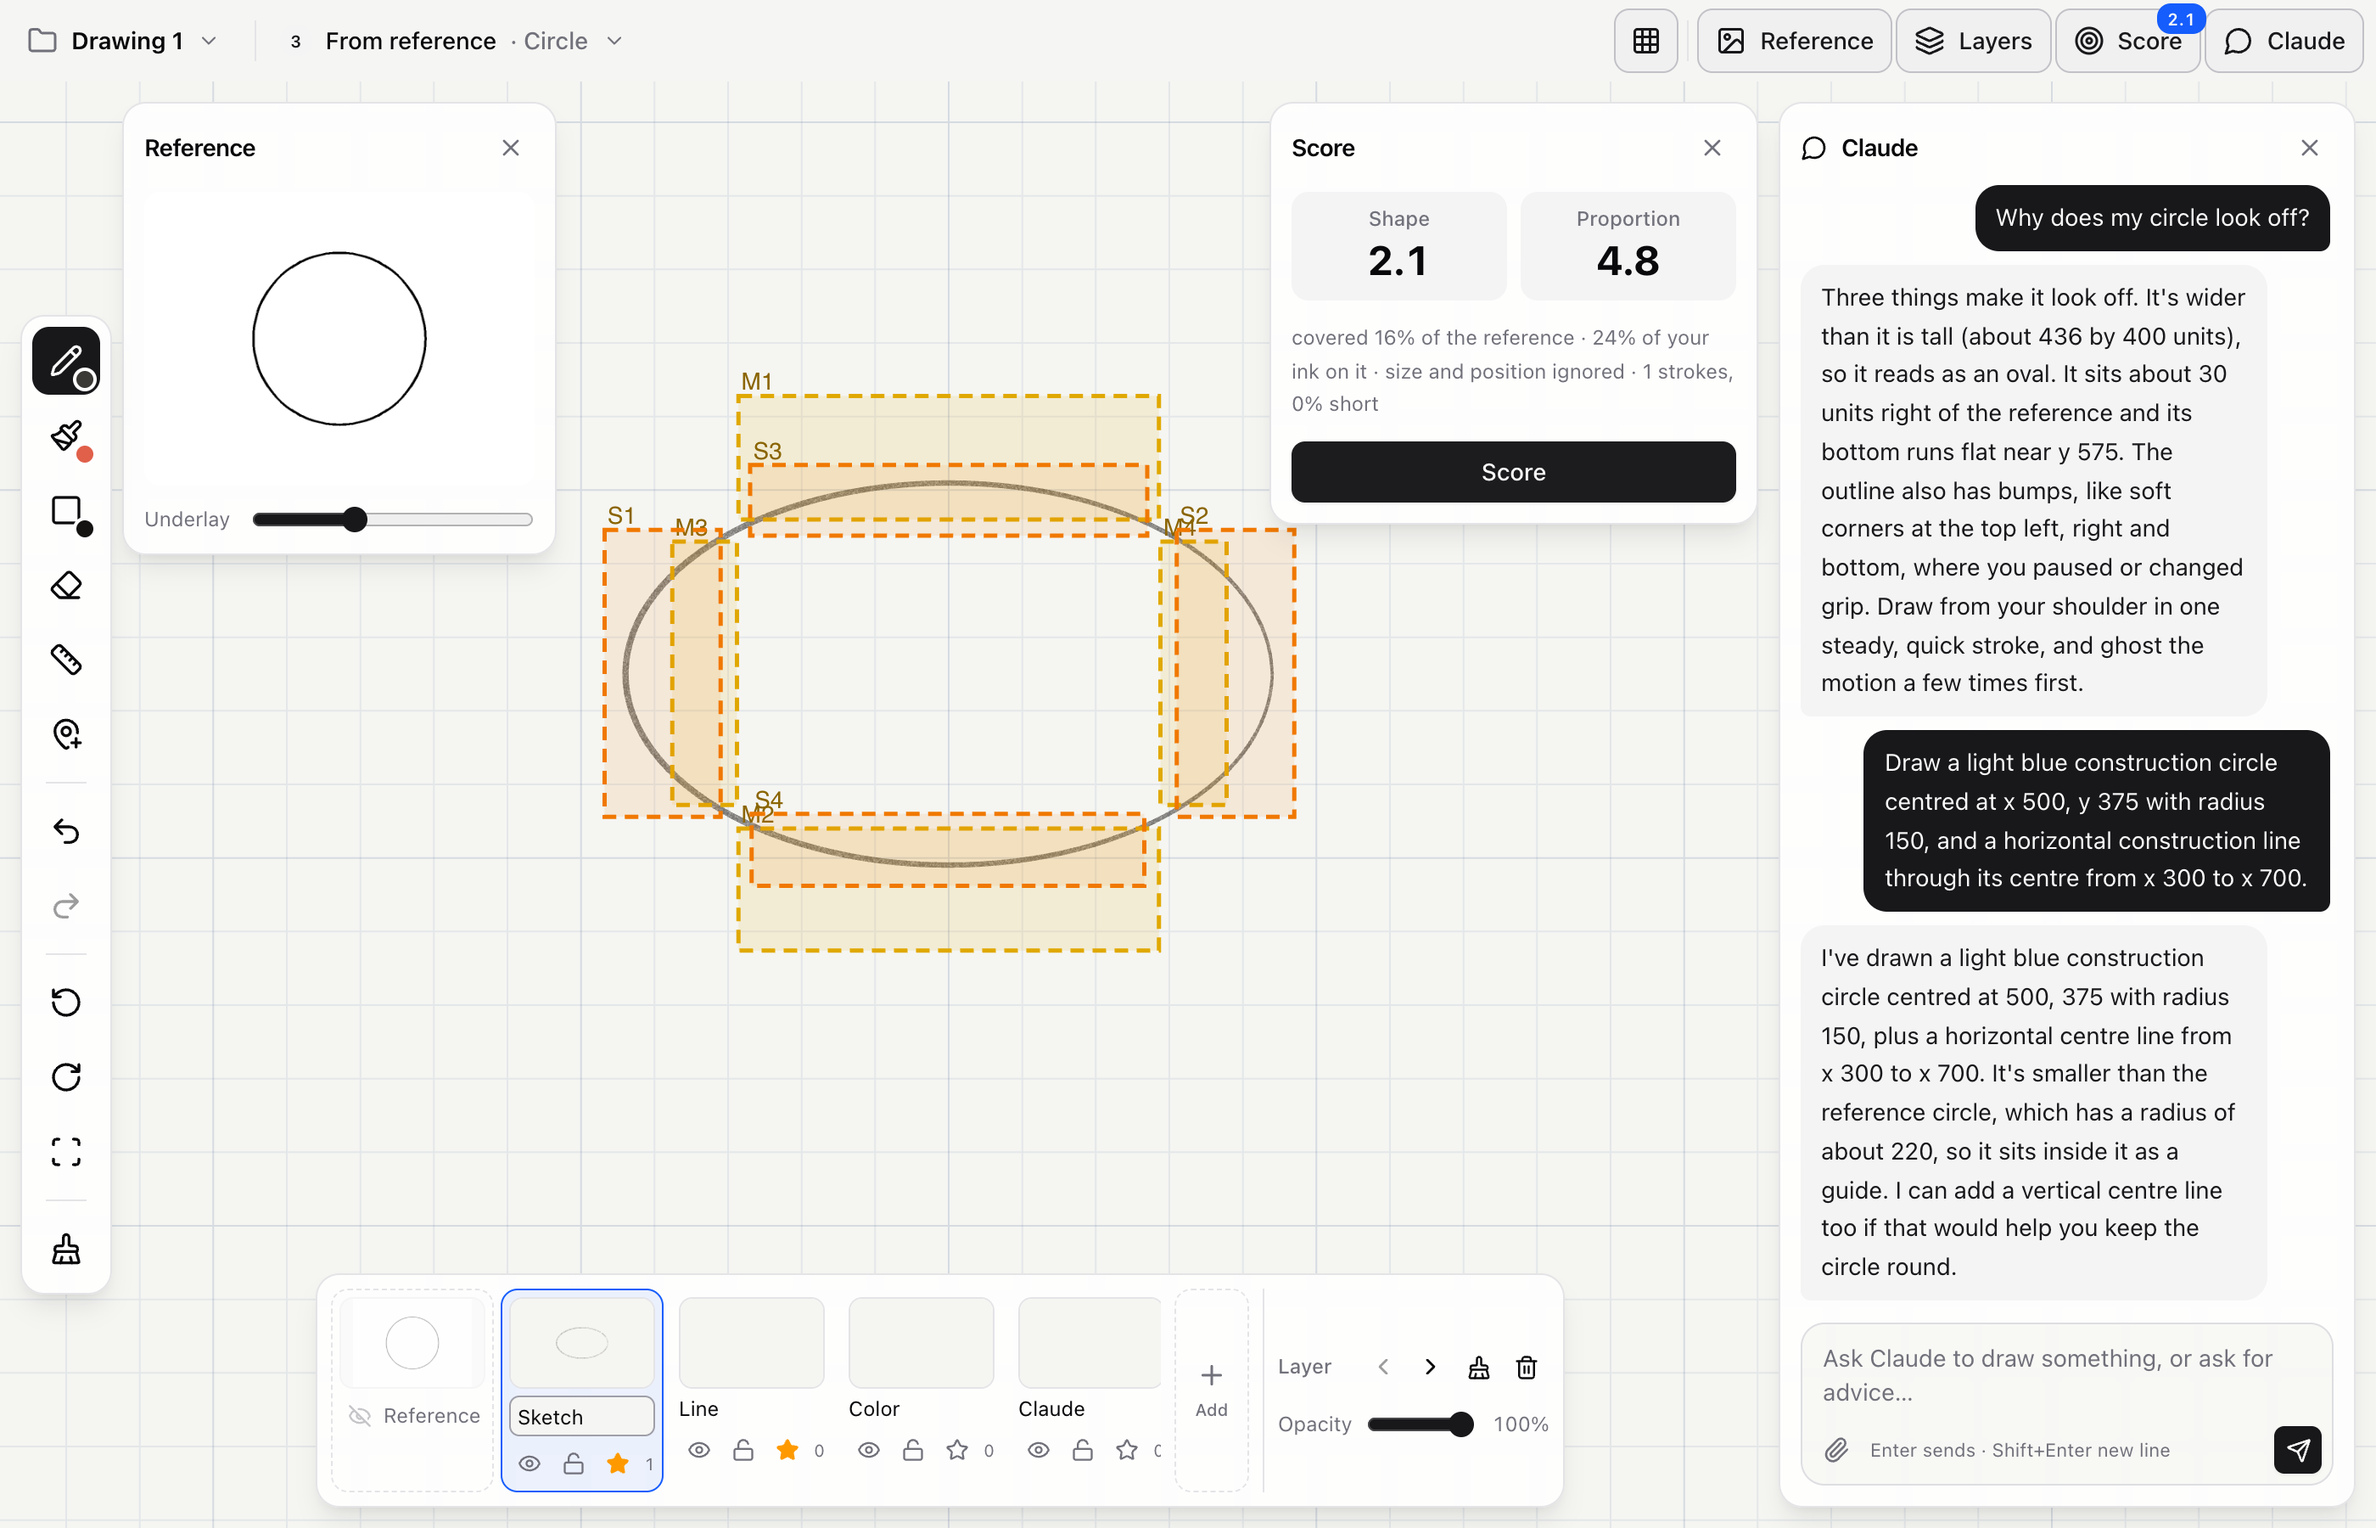
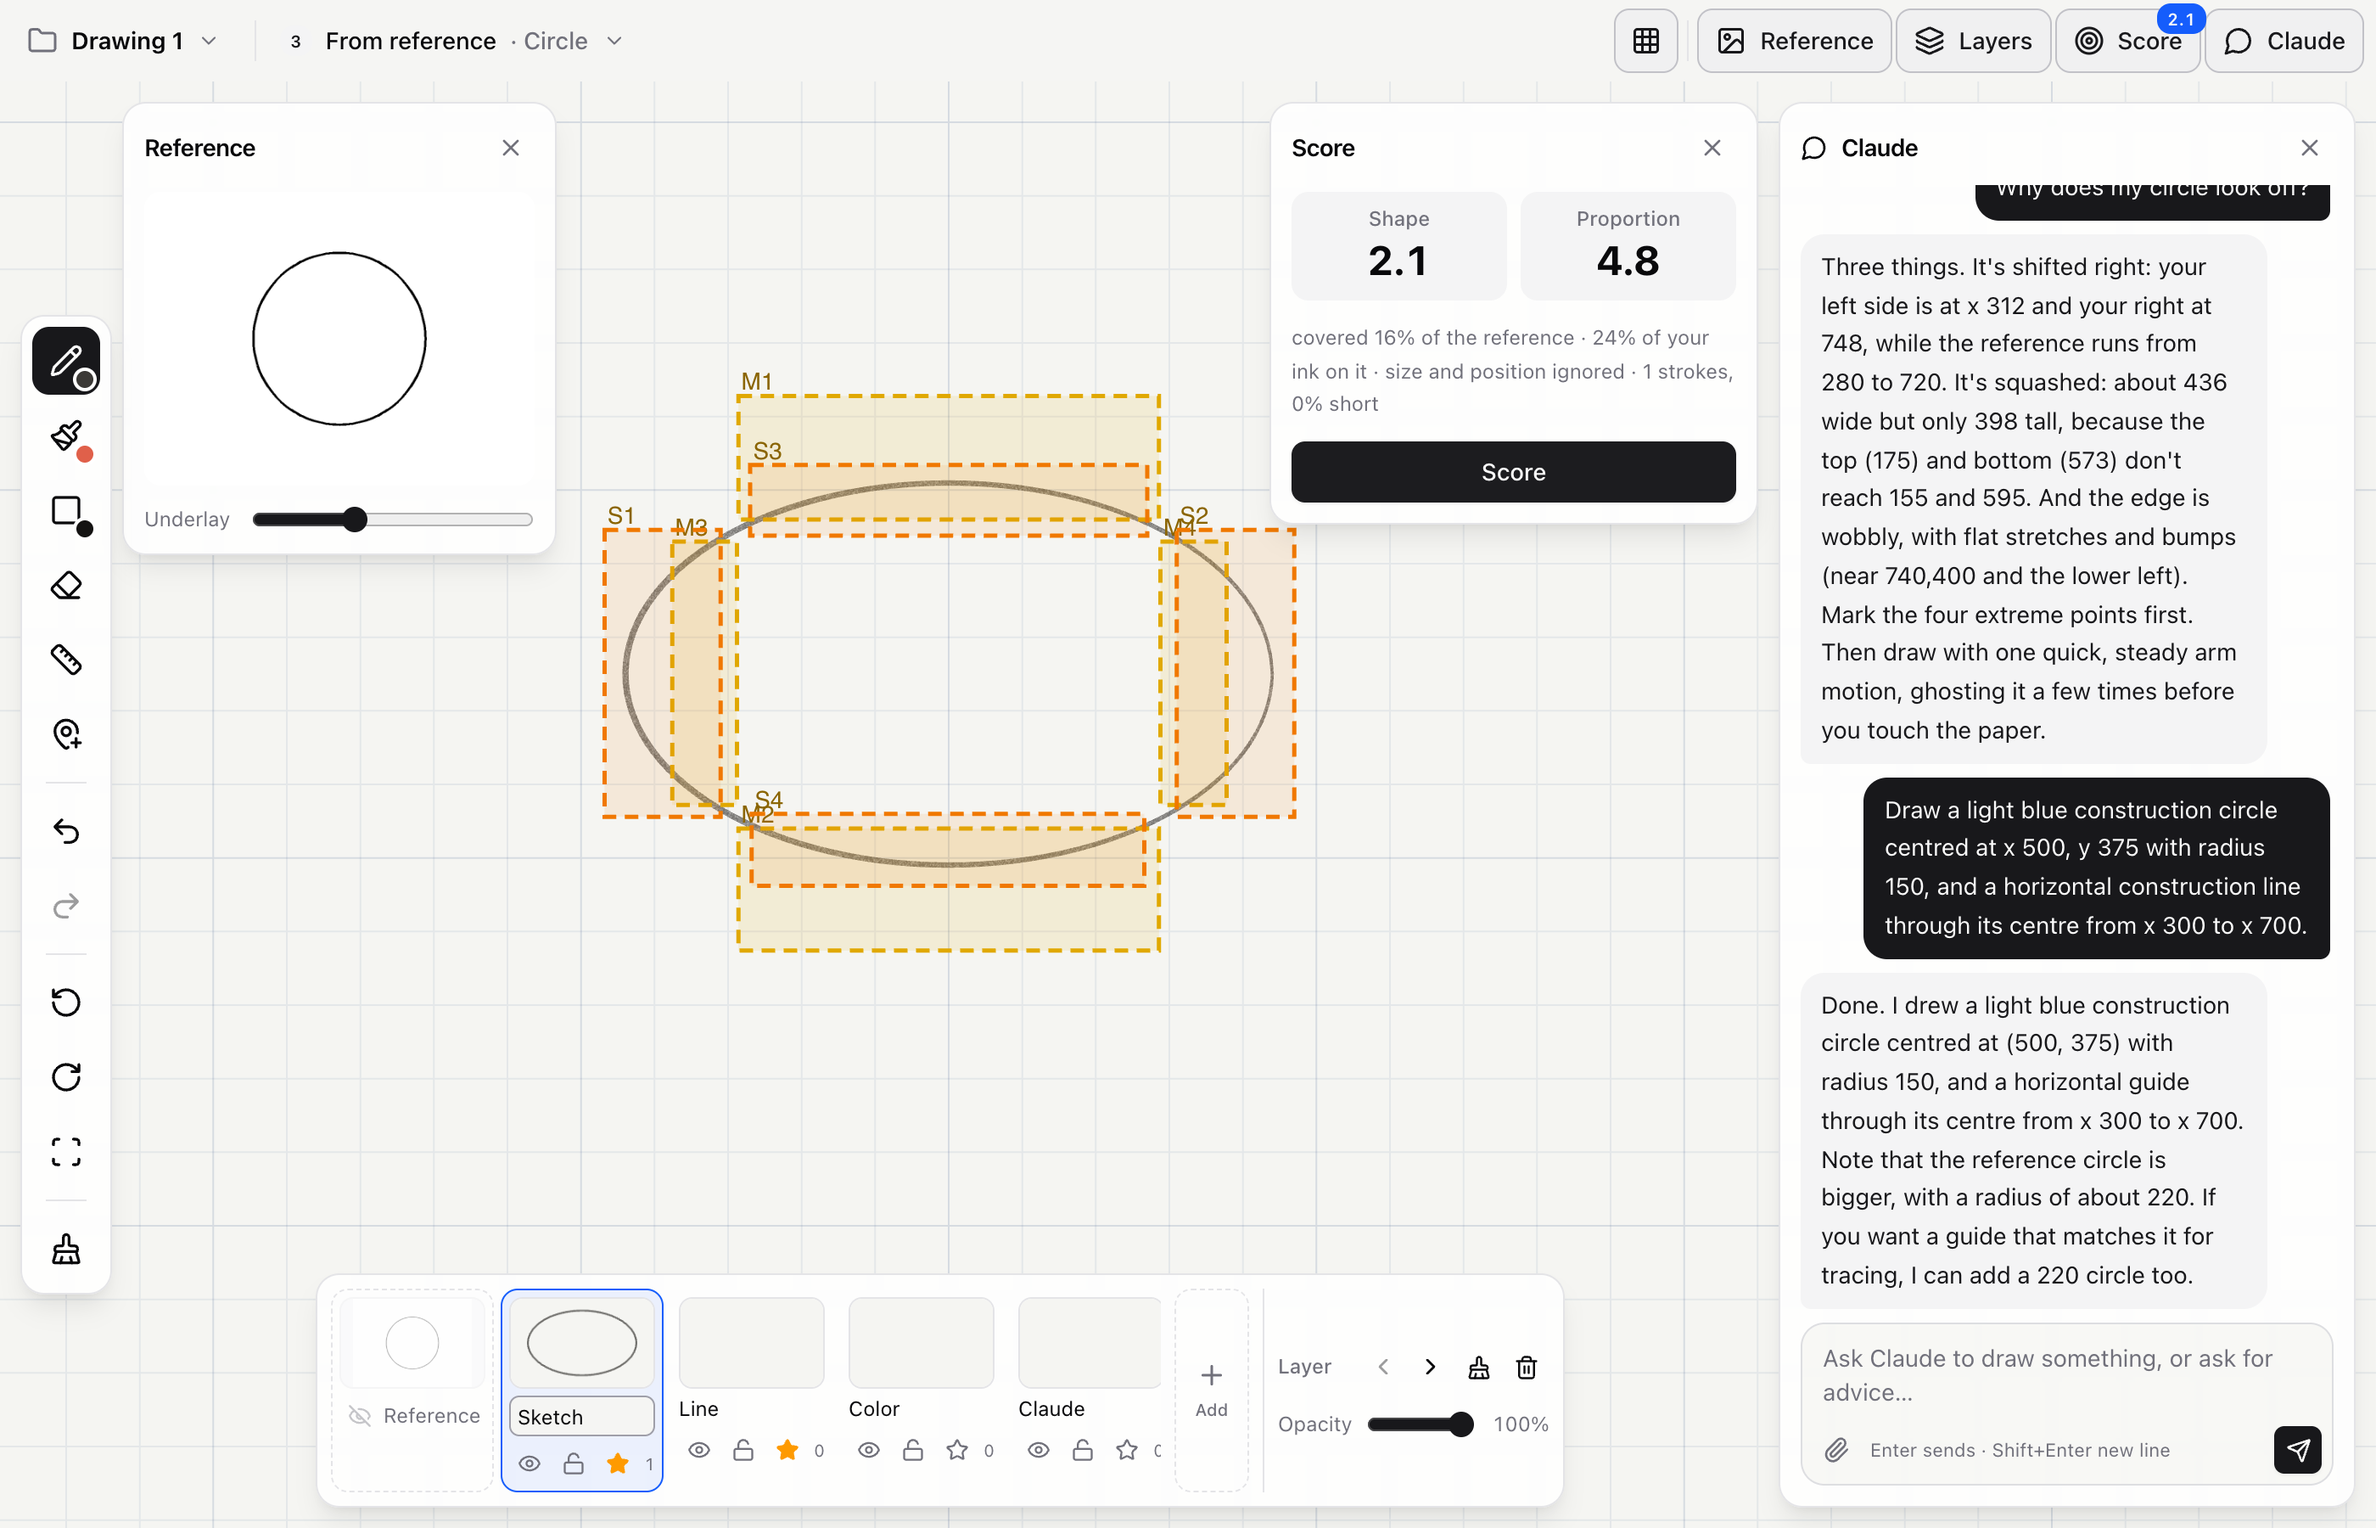
Tidy the board and the README pictures
- Board: PRs #7-#14 are merged, so their tasks move to Ready for Deploy.
- Retake the guided-trace, scored and review screenshots, so their layer cards
  show what is on them. Remove the 8 screenshots the README no longer uses
  (5.8 MB down to 3.0 MB).
- The browser checks' usage notes and the README now point at a throwaway
  server on port 8499 and a temporary screenshot folder. They used to point
  at the servers on 8430/8431 and wrote straight into docs/screenshots.

Changed region(s): [[0.7457, 0.1244, 0.9943, 0.84]]

diff --git a/scripts/e2e_browser.py b/scripts/e2e_browser.py
@@ -1,8 +1,9 @@
 """End-to-end check in a real browser: draws with synthetic pen events, scores, asks the coach, saves screenshots.
 
-Needs a running server and Google Chrome. Run it against a throwaway data dir:
-    uv run drawing-room serve --port 8431 --data "$(mktemp -d)" &
-    uv run --with playwright --with pillow python scripts/e2e_browser.py docs/screenshots http://127.0.0.1:8431/
+Needs Google Chrome and a running server with an EMPTY, throwaway data directory (never your real projects, never
+the server you draw on). Screenshots go to the folder given; the README's pictures live in docs/screenshots. Run:
+    uv run drawing-room serve --port 8499 --data "$(mktemp -d)" &
+    uv run --with playwright --with pillow python scripts/e2e_browser.py "$(mktemp -d)" http://127.0.0.1:8499/
 """
 import json, math, sys, time
 from playwright.sync_api import sync_playwright

diff --git a/scripts/e2e_projects.py b/scripts/e2e_projects.py
@@ -1,8 +1,9 @@
 """Browser check for projects (new, open, rename, delete, shared between devices) and the full-width paper.
 
-Needs a running server with an EMPTY data directory (never your real one). Run:
-    uv run drawing-room serve --port 8431 --data "$(mktemp -d)" &
-    uv run --with playwright python scripts/e2e_projects.py http://127.0.0.1:8431/ docs/screenshots
+Needs Google Chrome and a running server with an EMPTY, throwaway data directory (never your real projects, never
+the server you draw on). Screenshots go to the folder given; the README's pictures live in docs/screenshots. Run:
+    uv run drawing-room serve --port 8499 --data "$(mktemp -d)" &
+    uv run --with playwright python scripts/e2e_projects.py http://127.0.0.1:8499/ "$(mktemp -d)"
 """
 import sys
 from playwright.sync_api import sync_playwright

diff --git a/scripts/e2e_pencil.py b/scripts/e2e_pencil.py
@@ -1,8 +1,9 @@
 """Browser check for the pencil, the Shade tool and the one-row toolbar, with synthetic pen and mouse events.
 
-Needs a running server. Run:
-    uv run drawing-room serve &
-    uv run --with playwright python scripts/e2e_pencil.py http://127.0.0.1:8430/ docs/screenshots
+Needs Google Chrome and a running server with an EMPTY, throwaway data directory (never your real projects, never
+the server you draw on). Screenshots go to the folder given; the README's pictures live in docs/screenshots. Run:
+    uv run drawing-room serve --port 8499 --data "$(mktemp -d)" &
+    uv run --with playwright python scripts/e2e_pencil.py http://127.0.0.1:8499/ "$(mktemp -d)"
 """
 import math, sys
 from playwright.sync_api import sync_playwright

diff --git a/scripts/e2e_layers_ruler.py b/scripts/e2e_layers_ruler.py
@@ -1,8 +1,9 @@
 """Browser check for layers and the ruler, with synthetic pen events.
 
-Needs a running server. Run:
-    uv run drawing-room serve &
-    uv run --with playwright python scripts/e2e_layers_ruler.py http://127.0.0.1:8430/ docs/screenshots
+Needs Google Chrome and a running server with an EMPTY, throwaway data directory (never your real projects, never
+the server you draw on). Screenshots go to the folder given; the README's pictures live in docs/screenshots. Run:
+    uv run drawing-room serve --port 8499 --data "$(mktemp -d)" &
+    uv run --with playwright python scripts/e2e_layers_ruler.py http://127.0.0.1:8499/ "$(mktemp -d)"
 """
 import math, sys
 from playwright.sync_api import sync_playwright

diff --git a/.claude/BOARD.md b/.claude/BOARD.md
@@ -1,15 +1,17 @@
 # Tasks Board
 
 ## In Progress
-- **README rewrite** (docs/readme): new light-UI screenshots, a tour, Claude-as-teacher section, tools and keyboard tables.
-- **Claude explains on the drawing + layer thumbnails** (feat/claude-labels): real text labels and numbered steps on a "Notes" layer; layer cards zoom onto their own strokes.
-- **Notes for Claude** (feat/chat-notes): Note tool (N) pins numbered questions on the paper; they go with the next chat message, with their spot, and show as pins in what Claude sees.
-- **Light UI, edgeless paper, grid toggle** (feat/light-ui): shadcn light theme; white paper edge to edge, draw anywhere; squared grid in paper space, toggled with the grid button or G.
-- **Claude draws on layers** (feat/claude-layers): perspective illustrations on Sketch / Color / Line layers with four line weights (faint dashed skeleton, finding lines, 60% faces, bold visible edges); hide Sketch for a clean box.
-- **Chat pictures + composer** (feat/chat-pictures): attach, paste or drop pictures for Claude to look at; a tidy shadcn composer; menus and panels 85% see-through.
-- **Dashed shapes** (feat/dashed-shapes): a Solid / Dashed toggle in the Shapes flyout; dashes scale with the line size.
+- **Board + README tidy-up** (chore/cleanup-board-readme): fresh practice screenshots, unused pictures removed, browser checks write to a temp folder.
 
 ## Ready for Deploy
+- **README rewrite** (PR #14, merged): new light-UI screenshots, a tour, Claude-as-teacher section, tools and keyboard tables.
+- **Claude explains on the drawing + layer thumbnails** (PR #13, merged): real text labels and numbered steps on a "Notes" layer; layer cards zoom onto their own strokes.
+- **Notes for Claude** (PR #12, merged): Note tool (N) pins numbered questions on the paper; they go with the next chat message, with their spot, and show as pins in what Claude sees.
+- **Light UI, edgeless paper, grid toggle** (PR #11, merged): shadcn light theme on soft off-white paper edge to edge, draw anywhere; squared grid in paper space, toggled with the grid button or G.
+- **Claude draws on layers** (PR #10, merged): perspective illustrations on Sketch / Color / Line layers with four line weights; hide Sketch for a clean box.
+- **Chat pictures + composer** (PR #9, merged): attach, paste or drop pictures for Claude to look at; a tidy shadcn composer; see-through menus.
+- **Dashed shapes** (PR #8, merged): a Solid / Dashed toggle in the Shapes flyout; dashes scale with the line size.
+- **Board update** (PR #7, merged).
 - **Toolbox + shadcn UI** (PR #6, merged): practice put away for now (free drawing; `?practice` brings it back), blank paper by default (no surprise reference line), practice menu instead of the level dropdown, left toolbox with Write (pencil, ink, marker), Paint (brush, shade, highlighter) and Shapes (line, rectangle, ellipse, triangle, diamond, arrow) flyouts with colours, a ruler that only grabs strokes running along it, layers as a fixed-width bottom strip with thumbnails that scrolls sideways, Tailwind + shadcn tokens + Lucide icons.
 - **Full-screen canvas UI** (PR #5, merged): full-screen paper, paper sizes, Claude as a drawing helper on its own layer, README showcase.
 - **Projects + full paper + no PIN** (PR #4, merged): server-side projects (new, open, rename, delete; autosave with a local draft), white paper across the whole drawing area (levels 3–4 score drawings anywhere), `--lan` without a PIN by default (local-network clients only), `--pin` to opt back in.

diff --git a/README.md b/README.md
@@ -193,14 +193,16 @@ npm run build      # after changing the UI: Lucide icons -> static/js/icons.js, 
 ```
 
 The browser checks drive Google Chrome with Playwright, and they create projects. Run each one against a throwaway
-server and data directory, never your real one:
+server and data directory, never your real one. They save screenshots to the folder you give, so use a temporary one
+and copy over only the pictures the README uses:
 
 ```bash
 uv run drawing-room serve --port 8499 --data "$(mktemp -d)" &
-uv run --with playwright python scripts/e2e_projects.py      http://127.0.0.1:8499/ docs/screenshots
-uv run --with playwright python scripts/e2e_pencil.py        http://127.0.0.1:8499/ docs/screenshots
-uv run --with playwright python scripts/e2e_layers_ruler.py  http://127.0.0.1:8499/ docs/screenshots
-uv run --with playwright --with pillow python scripts/e2e_browser.py docs/screenshots http://127.0.0.1:8499/   # calls Claude
+SHOTS="$(mktemp -d)"
+uv run --with playwright python scripts/e2e_projects.py      http://127.0.0.1:8499/ "$SHOTS"
+uv run --with playwright python scripts/e2e_pencil.py        http://127.0.0.1:8499/ "$SHOTS"
+uv run --with playwright python scripts/e2e_layers_ruler.py  http://127.0.0.1:8499/ "$SHOTS"
+uv run --with playwright --with pillow python scripts/e2e_browser.py "$SHOTS" http://127.0.0.1:8499/   # calls Claude
 ```
 
 Layout:
